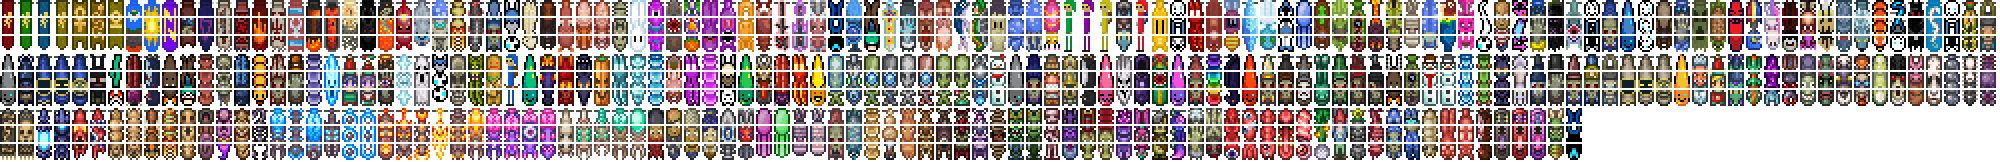
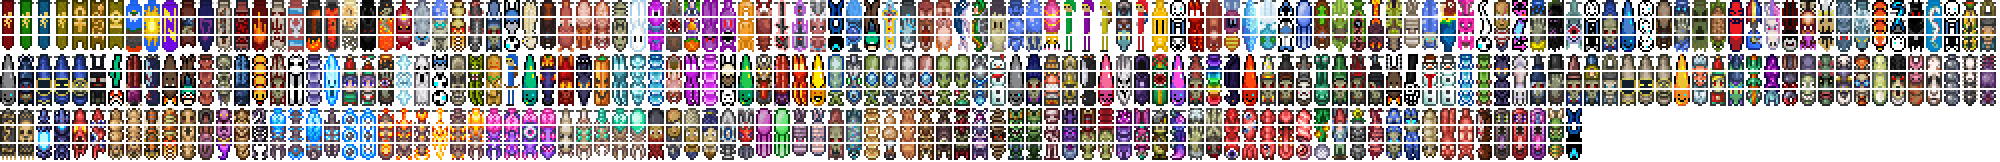
Added Snatcher and Doctor Bones
Also added Archaeologist's Set (items only) and Leather

diff --git a/README.md b/README.md
@@ -44,10 +44,10 @@ Last updated: _{@p time @} UTC_
 - **{@p snd @}** Sounds
 @end-template-->
 <!--@region FileCount-->
-Last updated: _2023-08-09 UTC_
+Last updated: _2023-08-10 UTC_
 
-- **1058** Images (**5%** of the way to the next update)
-- **3034** Text Entries
+- **1068** Images (**6%** of the way to the next update)
+- **3047** Text Entries
 - **17** Songs
 - **22** Sounds
 <!--@end-region-->
